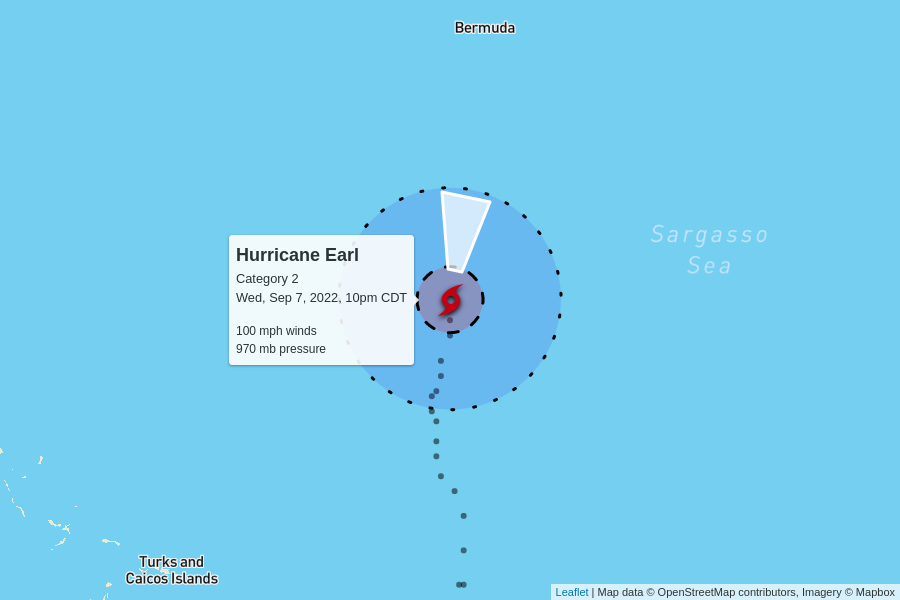
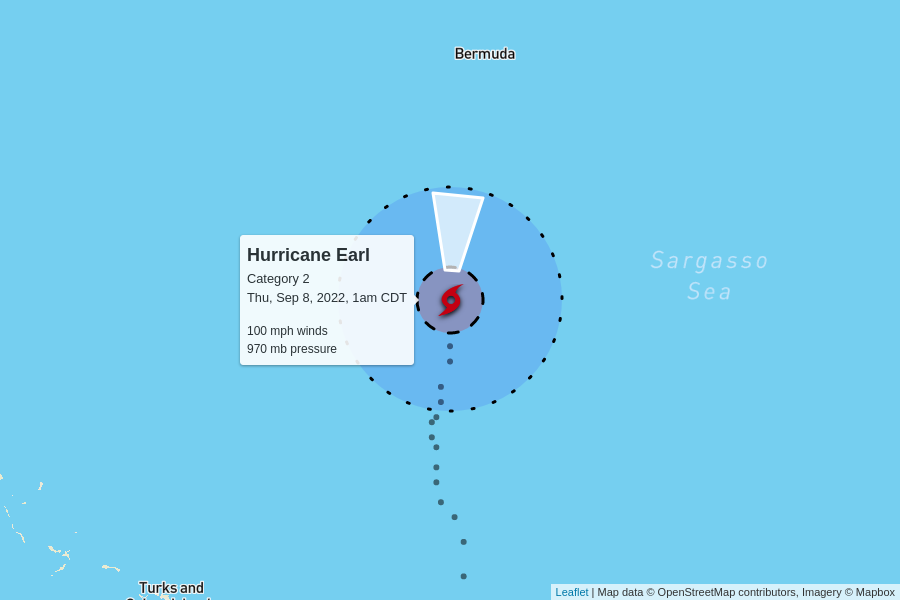
automatic update

diff --git a/docs/index.html b/docs/index.html
@@ -97,6 +97,50 @@
 
     <table>
       <tr>
+        <td colspan="6" class="storm category-2" >
+          <h2>
+            Hurricane Earl - Category 2
+            <p class="updated">last updated <span data-time>2022-09-08T06:00:00.000Z</span></p>
+          </h2>
+        </td>
+      </tr>
+      
+      <tr>
+        <th class="spacer"></th>
+        <th>wind speed</th>
+        <th>central pressure</th>
+        <th>movement</th>
+        <th>data (CSV)</th>
+        <th>National Hurricane Center</th>
+      </tr>
+      <tr>
+        <td class="spacer"></td>
+        <td>100 mph</td>
+        <td>970 mb</td>
+        <td>
+          9 mph to the north
+          <br/>
+          <span style="display: inline-block; font-size: 1.5em; transform: rotate(5deg);">↑</span>
+        </td>
+        <td><a href="https://raw.githubusercontent.com/mgwalker/atlantic-hurricanes/main/data/csv/AL062022.csv">AL062022.csv</a></td>
+        <td><a href="https://www.nhc.noaa.gov/archive/2022/EARL.shtml?">NHC advisories</a></td>
+      </tr>
+      <tr id="storm_AL062022" >
+        <td class="spacer">
+        <td colspan="5">
+          <figure>
+            <img src="AL062022.png">
+            <figcaption>
+              Map data &copy; <a href="https://www.openstreetmap.org/copyright">OpenStreetMap</a> contributors,
+              Imagery &copy; <a href="https://www.mapbox.com/">Mapbox</a> |
+              <a href="https://www.mapbox.com/map-feedback/" target="_blank">Improve this map</a>
+            </figcaption>
+          </figure>
+        </td>
+      </tr>
+      
+
+      <tr>
         <td colspan="6" class="storm category-1" >
           <h2>
             Hurricane Danielle - Category 1
@@ -130,50 +174,6 @@
         <td colspan="5">
           <figure>
             <img src="AL052022.png">
-            <figcaption>
-              Map data &copy; <a href="https://www.openstreetmap.org/copyright">OpenStreetMap</a> contributors,
-              Imagery &copy; <a href="https://www.mapbox.com/">Mapbox</a> |
-              <a href="https://www.mapbox.com/map-feedback/" target="_blank">Improve this map</a>
-            </figcaption>
-          </figure>
-        </td>
-      </tr>
-      
-
-      <tr>
-        <td colspan="6" class="storm category-2" >
-          <h2>
-            Hurricane Earl - Category 2
-            <p class="updated">last updated <span data-time>2022-09-08T03:00:00.000Z</span></p>
-          </h2>
-        </td>
-      </tr>
-      
-      <tr>
-        <th class="spacer"></th>
-        <th>wind speed</th>
-        <th>central pressure</th>
-        <th>movement</th>
-        <th>data (CSV)</th>
-        <th>National Hurricane Center</th>
-      </tr>
-      <tr>
-        <td class="spacer"></td>
-        <td>100 mph</td>
-        <td>970 mb</td>
-        <td>
-          9 mph to the north
-          <br/>
-          <span style="display: inline-block; font-size: 1.5em; transform: rotate(10deg);">↑</span>
-        </td>
-        <td><a href="https://raw.githubusercontent.com/mgwalker/atlantic-hurricanes/main/data/csv/AL062022.csv">AL062022.csv</a></td>
-        <td><a href="https://www.nhc.noaa.gov/archive/2022/EARL.shtml?">NHC advisories</a></td>
-      </tr>
-      <tr id="storm_AL062022" >
-        <td class="spacer">
-        <td colspan="5">
-          <figure>
-            <img src="AL062022.png">
             <figcaption>
               Map data &copy; <a href="https://www.openstreetmap.org/copyright">OpenStreetMap</a> contributors,
               Imagery &copy; <a href="https://www.mapbox.com/">Mapbox</a> |
